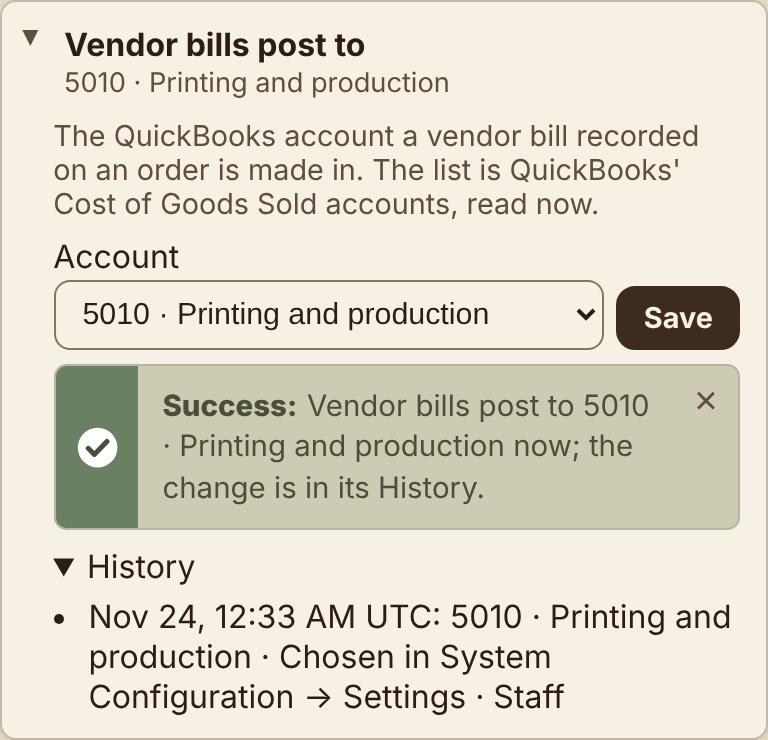
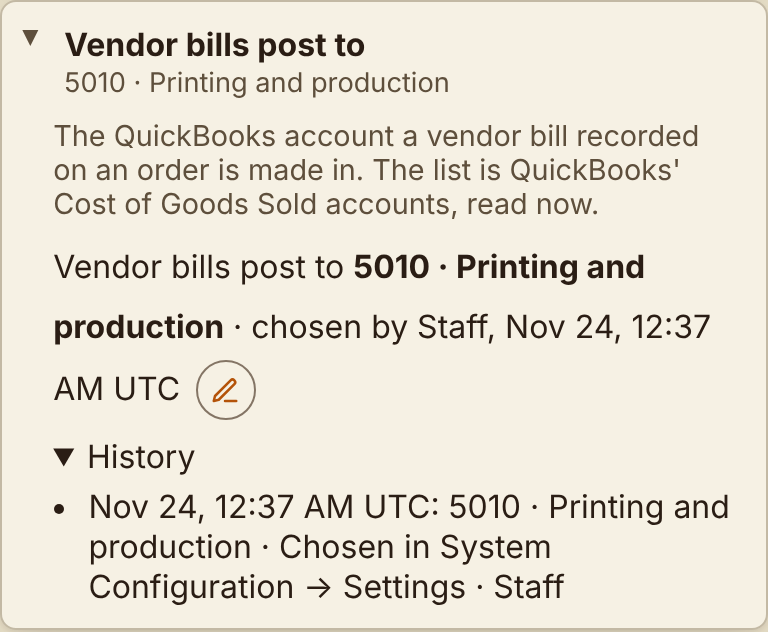
M1b: the setting, once chosen, is one line with ✎ (a finished step replaces its form); re-recorded
Claude-Session: https://claude.ai/code/session_01CXLi5kW2cGfR4Ya7fh2s3y

diff --git a/handoffs/order-management-m1b.md b/handoffs/order-management-m1b.md
@@ -214,3 +214,6 @@ Tests: m1b.php 51, m1b.cjs 55 × 2 (110), M1's suite all pass. Screens: m1b-sett
   default-category field against a real QuickBooks Vendor read in the sandbox, then use it before the setting
   "Vendor bills post to" (`QuickBooksPay::createBill`, `VendorBills::account`).
 - Moving client order emails onto the 0172 dispatcher (the session manager's separate item, not M1b).
+- The Design reviewer (00:35 UTC): a finished step replaces its form. Once chosen, the setting is one line, "Vendor bills
+  post to 5010 · Printing and production · chosen by <name>, <time>" with ✎ "Change the account" reopening the dropdown in
+  place (Cancel, Esc close it); no repeated success notice; History under it. m1b.cjs 56 × 2 (112) pass.
